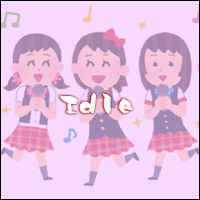
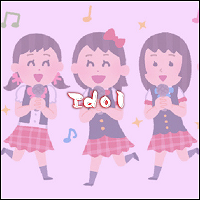
update idle

Changed region(s): [[0.0, 0.0, 1.0, 0.75], [0.27, 0.45, 0.69, 0.6], [0.0, 0.78, 1.0, 1.0]]

diff --git a/quizapp.py b/quizapp.py
@@ -1,3 +1,4 @@
+#quizapp.py
 from quizans import *
 from graphics import *
 from button import Button
@@ -90,7 +91,7 @@ class Question:
 
 class Launch:
     def __init__(self):
-        self.win = GraphWin("A or P Quiz", 800, 600)
+        self.win = GraphWin("Idol or Program Quiz", 800, 600)
         self.win.setCoords(0, 0, 200, 150)
         self.win.setBackground("white")
 
